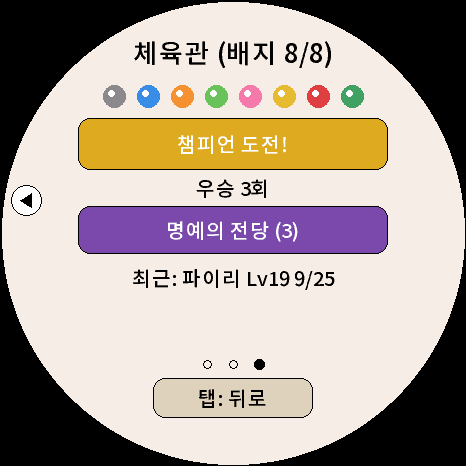
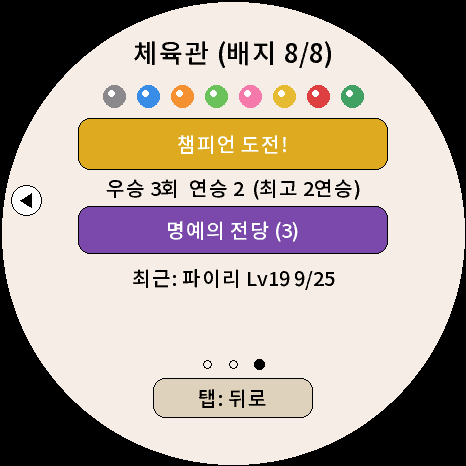
claude-version: champion league win streak (badges kept on loss; losing in the league resets the streak; shown on league page, result and Hall of Fame detail) - ko11.6.1, not built
Claude-Session: https://claude.ai/code/session_01CiwvMdFH9wtdhm1XA9VgMB

Changed region(s): [[0.2103, 0.3605, 0.7811, 0.4206]]

diff --git a/claude-version/TamaPoke/i18n_ext.cpp b/claude-version/TamaPoke/i18n_ext.cpp
@@ -79,7 +79,7 @@ static const char *const XS[2][X_COUNT] = {
     "Reward already taken today (%u wins)", "%s  %s  ~Lv%u",
     "POKEMON LEAGUE", "CHALLENGE THE LEAGUE!", "Get all 8 badges to challenge", "Champion %u times",
     "HALL OF FAME", "Become champion to be listed here", "The Champion",
-    "The League! Beat 6 in a row!", "CHAMPION! Candy+10 Ball+3 Potion+3", "In box: %u",
+    "The League! Beat 6 in a row!", "CHAMPION x%u! Candy+10 Ball+3 Potion+3", "In box: %u",
     "Got a RARE CANDY!", "CANDY BAG", "CANDY BAG >", "Rare candy x%u", "%s x%u", "NOW", "No candy yet",
     "3 of these -> 1 of yours", "TRADE 1", "ALL (%u)", "GO USE", "1 -> 5 of yours", "USE", "CLOSE",
     "Done!", "Not while it is an egg", "This is the family you raise", "%u/%u",
@@ -89,6 +89,7 @@ static const char *const XS[2][X_COUNT] = {
     "SAVE BACKUP", "SAVE BACKUP (SD)", "BACK UP NOW", "empty", "latest", "No SD card", "Backed up!", "Backup failed",
     "Backup found on the SD card", "RESTORE", "CANCEL", "Restore this backup?", "Current progress will be lost",
     "Tap a backup to restore", "Auto: daily + evolve/champion/farewell", "Restoring... restarting",
+    "Streak %u  (best %u)", "Streak broken (%u in a row)", "%u in a row",
     "MEADOW", "BEACH", "FOREST", "VOLCANO", "MOUNTAIN", "SNOWFIELD", "POWER PLANT", "DOJO",
     "SWAMP", "DESERT", "RUINS", "GARDEN", "GRAVEYARD", "DRAGON VALE", "CITY", "MINE",
   },
@@ -165,7 +166,7 @@ static const char *const XS[2][X_COUNT] = {
     "오늘 보상은 받았어요 (%u승)", "%s  %s  ~Lv%u",
     "챔피언 리그", "챔피언 도전!", "배지 8개를 모으면 도전", "우승 %u회",
     "명예의 전당", "챔피언이 되면 여기에 남아요", "챔피언",
-    "챔피언 리그! 6마리를 이겨라!", "챔피언! 사탕+10 볼+3 물약+3", "보관함에 %u마리",
+    "챔피언 리그! 6마리를 이겨라!", "챔피언 %u연승! 사탕+10 볼+3 물약+3", "보관함에 %u마리",
     "만능 사탕을 얻었다!", "사탕 가방", "사탕 가방 >", "만능 사탕 %u개", "%s 사탕 %u개", "지금", "아직 사탕이 없어요",
     "3개 -> 지금 계열 사탕 1개", "1번 교환", "모두 (%u)", "사용하러 가기", "1개 -> 지금 계열 사탕 5개", "사용", "닫기",
     "바꿨어요!", "알일 때는 쓸 수 없어요", "지금 키우는 계열이에요", "%u/%u",
@@ -175,6 +176,7 @@ static const char *const XS[2][X_COUNT] = {
     "세이브 백업", "세이브 백업 (SD)", "지금 백업", "비어 있음", "최신", "SD카드가 없어요", "백업했어요!", "백업 실패",
     "SD카드에 백업이 있어요", "복원", "취소", "이 백업으로 복원할까요?", "지금 진행 상황은 사라져요", "백업을 누르면 복원",
     "자동: 하루 1번 + 진화, 챔피언, 작별 때", "복원 중... 다시 시작해요",
+    "연승 %u  (최고 %u연승)", "연승이 끊겼어요 (%u연승)", "%u연승",
     "초원", "바닷가", "숲", "화산", "산", "설원", "발전소", "도장",
     "늪", "사막", "유적", "꽃밭", "묘지", "용의 계곡", "도시", "광산",
   },

diff --git a/claude-version/TamaPoke/pet.cpp b/claude-version/TamaPoke/pet.cpp
@@ -880,6 +880,9 @@ void Pet::save() {
   prefs.putBytes("gymd", gymDay, sizeof(gymDay));  // ko10.11
   prefs.putBytes("gymw", gymWins, sizeof(gymWins));
   prefs.putUShort("chw", champWins);
+  prefs.putUShort("chs", champStreak);  // ko11.6.1
+  prefs.putUShort("chb", champBest);
+  prefs.putBytes("fstk", fameStreak, sizeof(fameStreak));
   prefs.putUShort("rcandy", rareCandy);
   prefs.putUInt("age", ageMinutes);
   prefs.putUInt("exp", exp);
@@ -947,6 +950,10 @@ void Pet::load() {
   if (prefs.getBytes("gymd", gymDay, sizeof(gymDay)) != sizeof(gymDay)) memset(gymDay, 0, sizeof(gymDay));
   if (prefs.getBytes("gymw", gymWins, sizeof(gymWins)) != sizeof(gymWins)) memset(gymWins, 0, sizeof(gymWins));
   champWins = prefs.getUShort("chw", 0);
+  champStreak = prefs.getUShort("chs", 0);  // ko11.6.1
+  champBest = prefs.getUShort("chb", 0);
+  if (champBest < champStreak) champBest = champStreak;
+  if (prefs.getBytes("fstk", fameStreak, sizeof(fameStreak)) != sizeof(fameStreak)) memset(fameStreak, 0, sizeof(fameStreak));
   rareCandy = prefs.getUShort("rcandy", 0);
   ageMinutes = prefs.getUInt("age", 0);
   // fork KO (ko7): guardados de antes (nivel = horas, hasta Lv338+) empiezan

diff --git a/claude-version/TamaPoke/pet.h b/claude-version/TamaPoke/pet.h
@@ -125,6 +125,9 @@ public:
   uint16_t gymDay[8] = { 0 };  // dia (epoch/86400, 16 bits) del ultimo premio de revancha
   uint8_t gymWins[8] = { 0 };  // revanchas ganadas por gimnasio (las estrellas)
   uint16_t champWins = 0;      // veces campeon de la liga
+  // ko11.6.1: racha de la liga (se corta al perder en ella; las medallas NO se pierden)
+  uint16_t champStreak = 0, champBest = 0;
+  uint8_t fameStreak[60] = {};  // racha de cada entrada del salon de la fama (mismo orden, 0 = sin dato)
   // ko10.11: caramelo universal (sale a veces en los salvajes) y cambios
   uint16_t rareCandy = 0;
   bool candyTrade(int16_t famDex, uint16_t times);  // 3 de otra familia -> 1 de la actual (x times)

diff --git a/claude-version/TamaPoke/i18n_ext.h b/claude-version/TamaPoke/i18n_ext.h
@@ -91,7 +91,8 @@ enum XId : uint16_t {  // ko10.6: pasaron de 255
   X_GOT_BALL, X_GOT_POTION, X_PERF_FMT, X_TOP_DBL_EXIT,
   X_BAK_BTN, X_BAK_TITLE, X_BAK_NOW, X_BAK_EMPTY, X_BAK_NEWEST, X_BAK_NOSD, X_BAK_DONE, X_BAK_FAIL,
   X_BAK_ASK_TITLE, X_BAK_RESTORE, X_BAK_CANCEL, X_BAK_CONFIRM, X_BAK_WARN, X_BAK_TAP_SLOT, X_BAK_AUTO,
-  X_BAK_RESTORING,  // ko11.6  // ko11.1
+  X_BAK_RESTORING,  // ko11.6
+  X_STREAK_FMT, X_STREAK_LOST_FMT, X_FAME_STREAK_FMT,  // ko11.6.1  // ko11.1
   X_REG_0, X_REG_1, X_REG_2, X_REG_3, X_REG_4, X_REG_5, X_REG_6, X_REG_7,
   X_REG_8, X_REG_9, X_REG_10, X_REG_11, X_REG_12, X_REG_13, X_REG_14, X_REG_15,
   X_COUNT

diff --git a/claude-version/TamaPoke/test/render/render_main.cpp b/claude-version/TamaPoke/test/render/render_main.cpp
@@ -267,7 +267,8 @@ static void scenes(bool ko, const char *sfx) {
     fame.add(6, 58, false, false, gMockEpoch - 86400 * 3);
     fame.add(134, 61, true, false, gMockEpoch - 86400);
     fame.add(pet.speciesId, pet.level(), pet.shiny, false, gMockEpoch);
-    pet.champWins = 3;
+    pet.champWins = 3; pet.champStreak = 2; pet.champBest = 2;
+    pet.fameStreak[1] = 1; pet.fameStreak[2] = 2;  // ko11.6.1: rachas
     render(); shot("59_league_fame");
     openFame(); render(); shot("59d_fame_grid");
     fameTap(FM_X + FM_CELL + 10, FM_Y + 10); render(); shot("59e_fame_detail");

diff --git a/claude-version/TamaPoke/test/test_box.cpp b/claude-version/TamaPoke/test/test_box.cpp
@@ -960,3 +960,17 @@ TEST(save, sin_nvs2_todo_sigue_igual) {
   CHECK_EQ(c.count(), (uint8_t)1);
   CHECK_EQ(mockNvsKeyCount("nvs2:tpbox"), (size_t)0);
 }
+
+// ko11.6.1: la racha de la liga se guarda y se relee
+TEST(save, racha_de_liga_persiste) {
+  Pet p;
+  freshPet(p, 4);
+  p.champStreak = 3; p.champBest = 5; p.fameStreak[0] = 2; p.fameStreak[59] = 7;
+  p.saveNow();
+  Pet q;
+  q.begin();
+  CHECK_EQ(q.champStreak, (uint16_t)3);
+  CHECK_EQ(q.champBest, (uint16_t)5);
+  CHECK_EQ(q.fameStreak[0], (uint8_t)2);
+  CHECK_EQ(q.fameStreak[59], (uint8_t)7);
+}

diff --git a/claude-version/확인_대기.md b/claude-version/확인_대기.md
@@ -30,3 +30,5 @@
   - 자동: 하루 1번 + 종 바뀜(부화·진화·새 파트너) + 챔피언 + 작별. 부팅 1분 뒤부터, 훈련·전투·화면 꺼짐 중엔 안 함
   - 수동: 네트워크 > [세이브 백업] → [지금 백업] / 백업 눌러 복원(확인 창)
   - 부팅 때 새 게임(스타터 선택) + SD 백업 있으면 "복원 / 새로 시작" 질문
+- ko11.6.1 준비: 챔피언 리그 연승 (패배해도 배지 유지, 리그에서 지면 연승만 0). 리그 쪽 "연승 N (최고 M연승)",
+  우승 결과 "챔피언 N연승!", 명예의 전당 상세 "N번째 챔피언  N연승". pet 키 chs/chb/fstk (SD 백업에도 포함)
